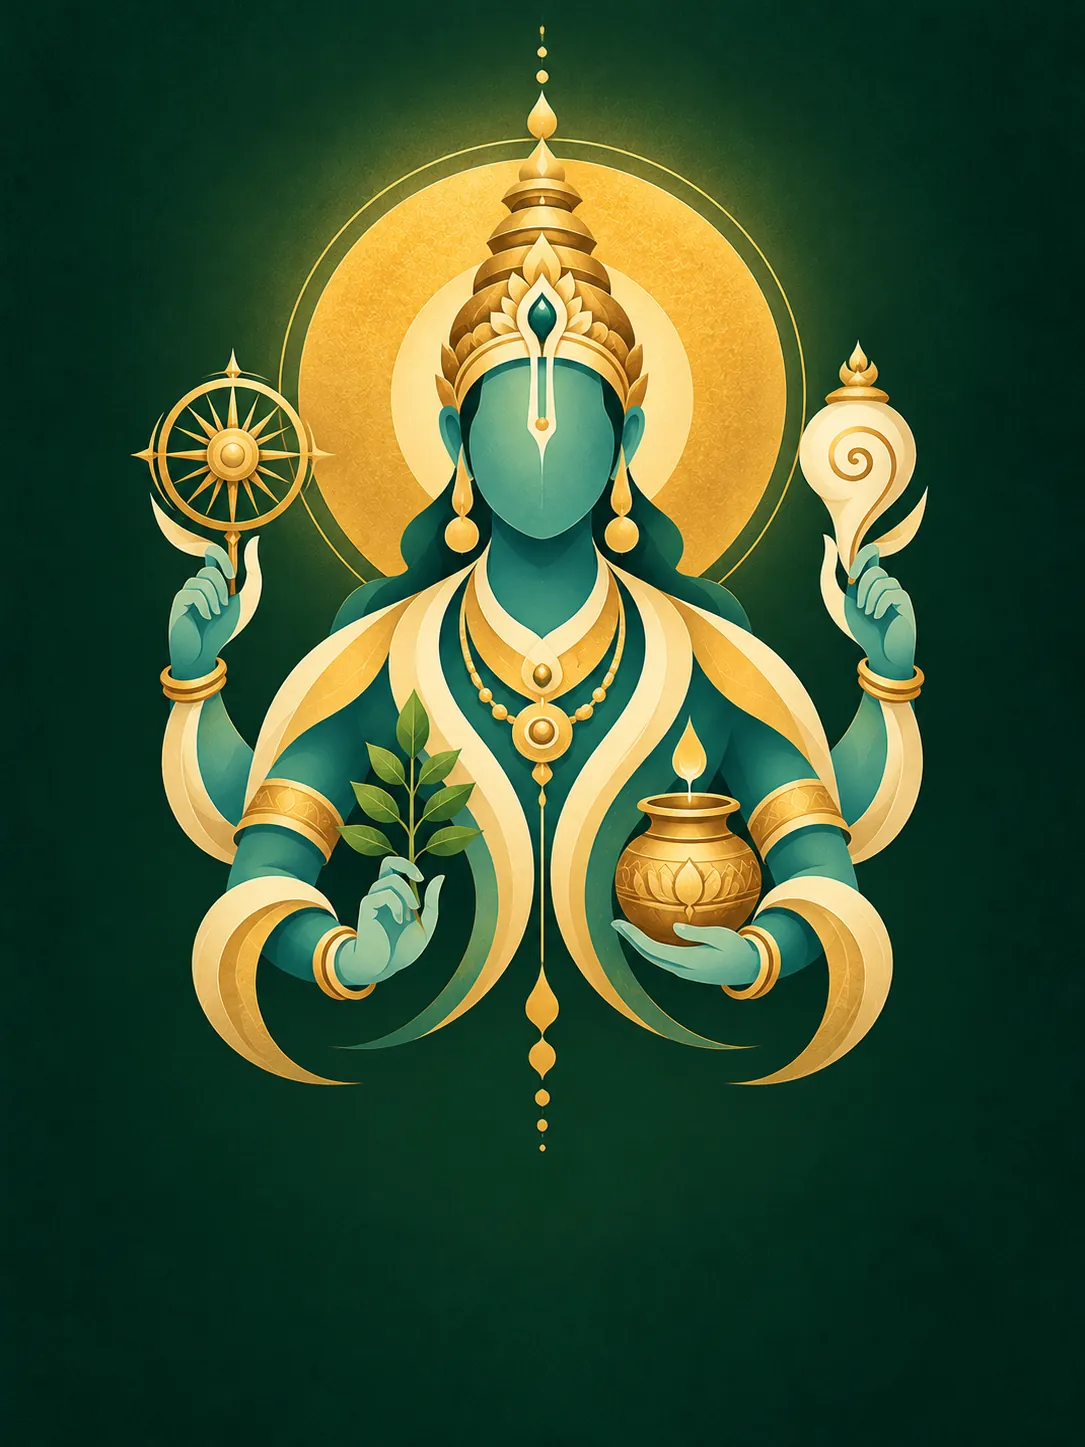
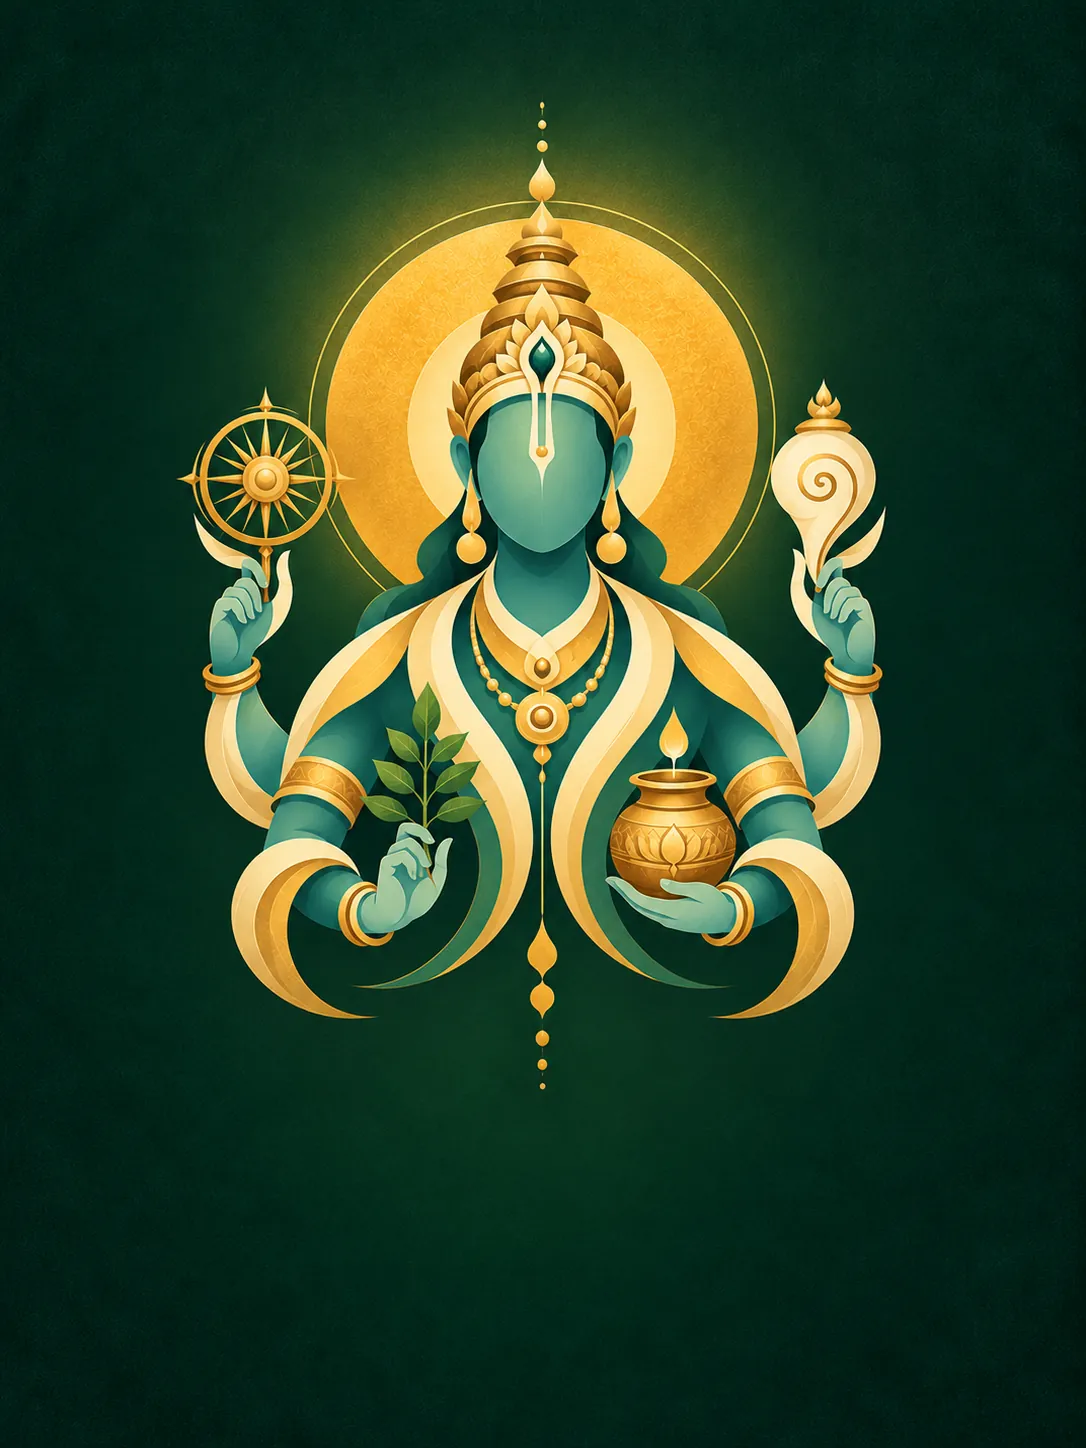
Splash: artwork fills space above the title block, new padded image
Title, tagline and progress sit at the bottom with the Dhanvantari line
directly under the artwork. Gradient colours match the new image's edges.

Claude-Session: https://claude.ai/code/session_01J9H9JnLf7R4b1apWqqR9Qc

Changed region(s): [[0.1217, 0.0311, 0.8516, 0.7775]]

diff --git a/apps/mobile/lib/ui/splash_screen.dart b/apps/mobile/lib/ui/splash_screen.dart
@@ -5,9 +5,9 @@ import 'package:flutter_riverpod/flutter_riverpod.dart';
 
 import '../providers/app_providers.dart';
 
-const _bgTop = Color(0xFF0F3A2D);
-const _bgMid = Color(0xFF0D3226);
-const _bgBottom = Color(0xFF0A261D);
+const _bgTop = Color(0xFF021E17);
+const _bgMid = Color(0xFF011B13);
+const _bgBottom = Color(0xFF00170F);
 const _gold = Color(0xFFF0A91E);
 const _softText = Color(0xFFB8D0C5);
 const _dimText = Color(0xFF8FB0A2);
@@ -78,8 +78,6 @@ class _SplashScreenState extends ConsumerState<SplashScreen> {
       debugPrint('Splash: database failed to open: ${db.error}');
     }
 
-    final artHeight = MediaQuery.sizeOf(context).height * 0.6;
-
     return Scaffold(
       backgroundColor: _bgBottom,
       body: DecoratedBox(
@@ -95,15 +93,18 @@ class _SplashScreenState extends ConsumerState<SplashScreen> {
           top: false,
           child: Column(
             children: [
-              // Up to 60% of the screen, but it gives way to the text below on
-              // short screens (small phones, split-screen) instead of overflowing.
-              Flexible(
-                child: ConstrainedBox(
-                  constraints: BoxConstraints(maxHeight: artHeight),
-                  child: const SizedBox.expand(child: _Artwork()),
+              // Takes all the room the text block below leaves, so the artwork
+              // is cropped as little as possible; it shrinks on short screens.
+              const Expanded(child: SizedBox.expand(child: _Artwork())),
+              const Text(
+                'ధన్వంతరి · धन्वन्तरि',
+                style: TextStyle(
+                  color: _gold,
+                  fontSize: 14,
+                  fontWeight: FontWeight.w500,
                 ),
               ),
-              const SizedBox(height: 4),
+              const SizedBox(height: 20),
               const Text(
                 'Amrutham',
                 style: TextStyle(
@@ -118,16 +119,7 @@ class _SplashScreenState extends ConsumerState<SplashScreen> {
                 "Your family's health, in files you own",
                 style: TextStyle(color: _softText, fontSize: 15),
               ),
-              const SizedBox(height: 22),
-              const Text(
-                'ధన్వంతరి · धन्वन्तरि',
-                style: TextStyle(
-                  color: _gold,
-                  fontSize: 14,
-                  fontWeight: FontWeight.w500,
-                ),
-              ),
-              const Spacer(),
+              const SizedBox(height: 28),
               if (failed)
                 _OpenFailed(onRetry: () => ref.invalidate(databaseProvider))
               else
